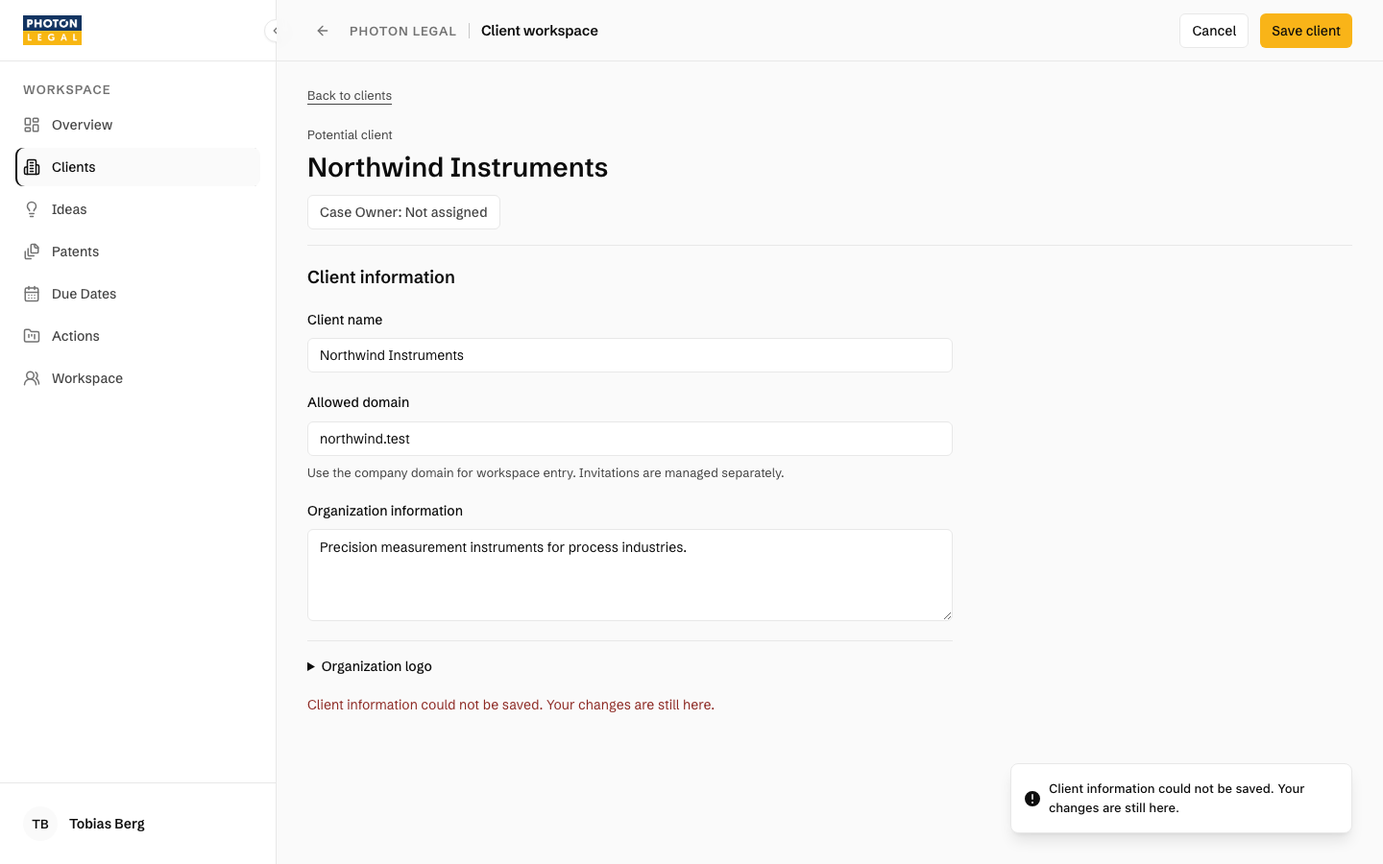
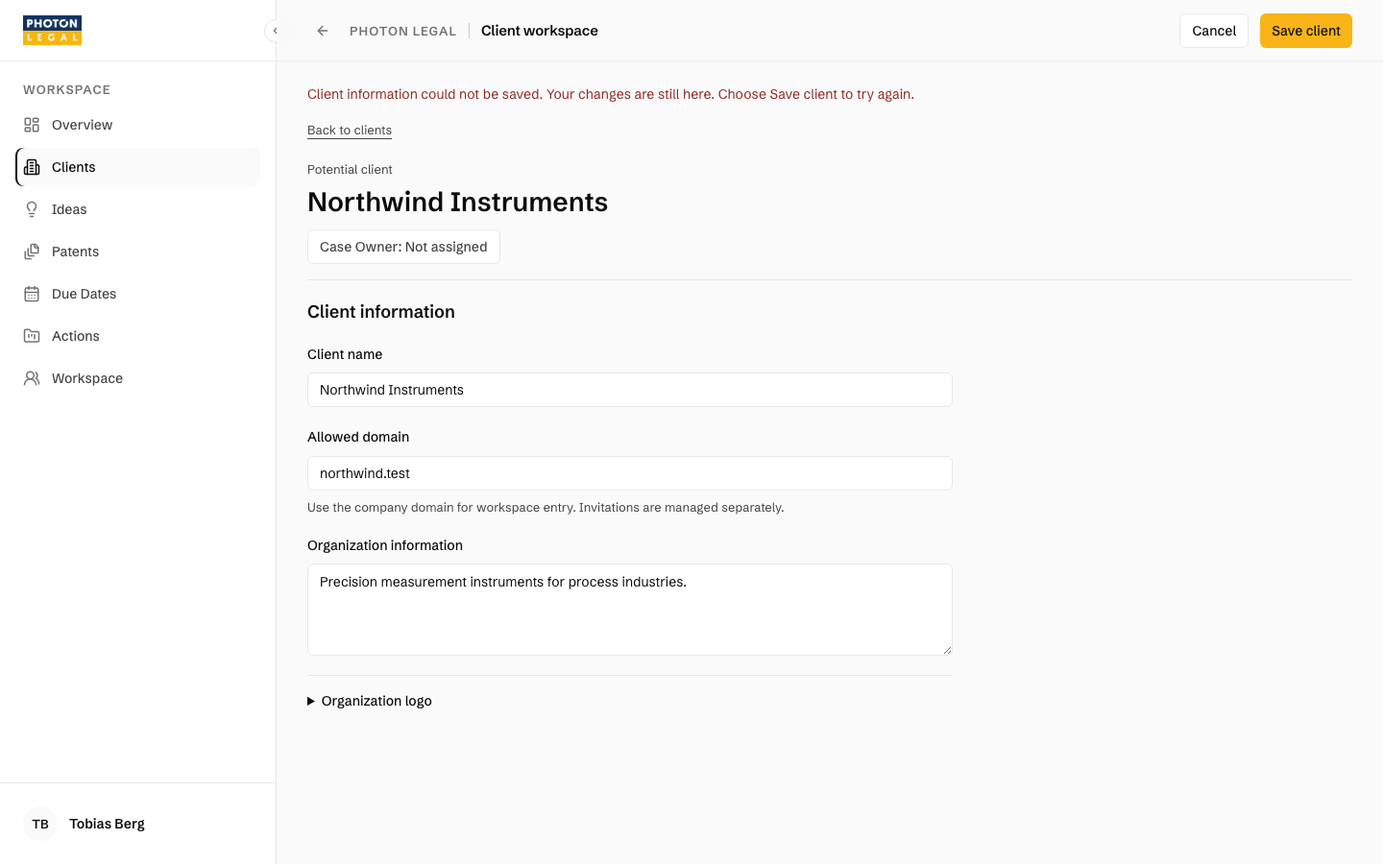
DSN-0018 resolve recovery findings and record independent PASS

diff --git a/src/pages/client/ClientDetailPage.tsx b/src/pages/client/ClientDetailPage.tsx
@@ -33,6 +33,7 @@ const ClientDetailPage: React.FC = () => {
   const { clientId } = useParams();
   const [params] = useSearchParams();
   const [saving, setSaving] = useState(false);
+  const [saveError, setSaveError] = useState<string | null>(null);
   const { user } = useUserCookie();
   // V0 limits client records to the Case Owner’s current assignments.
   // An old direct link retains the existing request-access recovery.
@@ -188,10 +189,11 @@ const ClientDetailPage: React.FC = () => {
   return <>
     <PageHeader title="Client workspace" actions={<div className="flex items-center gap-3">{isEditMode?<><Button size="sm" variant="outline" disabled={saving} onClick={()=>setIsEditMode(false)}>Cancel</Button><Button size="sm" className={actionPrimary} disabled={saving} onClick={async()=>{setSaving(true);try{await clientDetailsRef.current?.saveChanges();}finally{setSaving(false);}}}>{saving?"Saving…":"Save client"}</Button></>:client&&!isError&&<Button size="sm" variant="outline" onClick={()=>refetchClientData()}>Refresh client</Button>}<ActionsNavigation/></div>}/>
     <div data-client-workspace className="mx-auto w-full max-w-screen-2xl px-6 pb-10 pt-3 text-pl-ink md:px-8 md:pt-6 [&_input]:scroll-mt-56 [&_select]:scroll-mt-56 [&_button]:scroll-mt-56 [&_a]:scroll-mt-56">
+      {isEditMode && saveError && <p role="alert" className="mb-4 text-sm text-pl-red-text">{saveError} Choose Save client to try again.</p>}
       <Link to={back} className="text-xs text-pl-text-2 underline underline-offset-4">Back to clients</Link>
       {isLoading&&!client?<p role="status" className="py-8 text-sm text-pl-text-2">Loading client workspace…</p>:isUnassignedCaseOwner?<section className="py-8"><h1 className="text-xl font-semibold">Client access is not assigned</h1><p className="mt-3 max-w-prose text-sm text-pl-text-2">Ask a Photon Admin for access before opening this client's information or work.</p>{requestAccessMutation.isSuccess?<p role="status" className="mt-5 text-sm">Access request sent. A Photon Admin must assign access before you can open this client.</p>:<Button size="sm" className={`mt-5 ${actionPrimary}`} disabled={requestAccessMutation.isPending} onClick={()=>requestAccessMutation.mutate()}>{requestAccessMutation.isPending?"Sending request…":"Request client access"}</Button>}{requestAccessMutation.isError&&<p role="alert" className="mt-3 text-sm text-pl-red-text">The access request could not be sent. Try again.</p>}</section>:isError||!client?<section className="py-8"><h1 className="text-xl font-semibold">Client workspace could not be loaded</h1><p className="mt-3 text-sm text-pl-text-2">Reload to check the client's information and setup.</p><Button size="sm" className={`mt-5 ${actionPrimary}`} onClick={()=>refetchClientData()}>Reload client</Button></section>:<>
         <header className="sticky top-16 z-10 my-2 border-b border-pl-border bg-pl-bg-subtle pb-2 md:my-5 md:pb-4"><p className="hidden text-xs text-pl-text-2 md:block">{clientRelationship(client)}</p><h1 className="mt-1 break-words text-lg font-semibold leading-tight md:mt-2 md:text-2xl">{client.name}</h1><div className="mt-2 flex flex-wrap items-center gap-2 text-xs text-pl-text-2 md:mt-3 md:gap-3">{user.role==="PHOTON_ADMIN"?<Button size="sm" variant="outline" onClick={()=>setIsOwnerDialogOpen(true)}>Case Owner: {owners}</Button>:<p>Case Owner · {owners}</p>}{!isEditMode&&<Button size="sm" variant="outline" onClick={enterView} title={!client.is_active?"Client view is unavailable for an inactive client record.":client.onboarding?.admins.active===0?"A Workspace Admin must activate their invitation before client view is available.":undefined} disabled={!client.is_active || (client.onboarding && client.onboarding.admins.active===0)}>Enter client view</Button>}</div></header>
-        {isEditMode?<ClientDetails ref={clientDetailsRef} clientData={client} clientId={clientId!} refetchClientData={refetchClientData} isEditMode onSaveComplete={()=>setIsEditMode(false)} onCancel={()=>setIsEditMode(false)}/>:<ClientTabs clientId={clientId!} clientData={client} clientTeam={client.User} caseOwnerName={owners} onChangeCaseOwner={user.role==="PHOTON_ADMIN"?()=>setIsOwnerDialogOpen(true):undefined} canManageTeam={!isUnassignedCaseOwner} onEditClient={()=>setIsEditMode(true)}/>}
+        {isEditMode?<ClientDetails ref={clientDetailsRef} clientData={client} clientId={clientId!} refetchClientData={refetchClientData} isEditMode onSaveError={setSaveError} onSaveComplete={()=>setIsEditMode(false)} onCancel={()=>setIsEditMode(false)}/>:<ClientTabs clientId={clientId!} clientData={client} clientTeam={client.User} caseOwnerName={owners} onChangeCaseOwner={user.role==="PHOTON_ADMIN"?()=>setIsOwnerDialogOpen(true):undefined} canManageTeam={!isUnassignedCaseOwner} onEditClient={()=>{setSaveError(null);setIsEditMode(true);}}/>}
       </>}
     </div>
     <Dialog open={isOwnerDialogOpen} onOpenChange={setIsOwnerDialogOpen}><DialogContent className="max-h-full overflow-y-auto border-pl-border bg-pl-bg text-pl-ink sm:max-w-md"><DialogHeader><DialogTitle>Assign Case Owner</DialogTitle><DialogDescription>Add a support owner for {client?.name}. Existing client assignments stay in place.</DialogDescription></DialogHeader><div className="divide-y divide-pl-border">{caseOwners.map((owner:any)=><Button key={owner.id} variant="ghost" className="h-auto w-full justify-between gap-3 rounded-none px-0 py-3 text-left" disabled={ownerMutation.isPending || owner.assigned_client_ids?.includes(clientId) || owner.status!=="ACTIVE"} onClick={()=>ownerMutation.mutate(owner,{onSuccess:()=>refetchClientData()})}><span className="min-w-0"><span className="block break-words text-sm font-medium">{owner.name}</span><span className="mt-1 block break-all text-xs text-pl-text-2">{owner.email}</span></span>{owner.assigned_client_ids?.includes(clientId)&&<span className="text-xs">Assigned</span>}</Button>)}</div>{ownerMutation.isError&&<p role="alert" className="text-sm text-pl-red-text">The assignment could not be saved. Select the Case Owner to try again.</p>}</DialogContent></Dialog>

diff --git a/src/components/clients/OverviewTab.tsx b/src/components/clients/OverviewTab.tsx
@@ -363,7 +363,7 @@ const OverviewTab: React.FC<OverviewTabProps> = ({ clientTeam = [], clientId, cl
         </div>}
       </DialogContent>
     </Dialog>
-    <Dialog open={historyDialogOpen} onOpenChange={setHistoryDialogOpen}><DialogContent className="max-h-screen overflow-y-auto border-pl-border bg-pl-bg text-pl-ink sm:max-w-2xl"><DialogHeader><DialogTitle>Portfolio import history</DialogTitle><DialogDescription>Files imported into {clientData?.name}. Review the result before confirming readiness.</DialogDescription></DialogHeader><div className="flex flex-wrap gap-2"><Button size="sm" variant="outline" onClick={() => {refreshHistory(); queryClient.invalidateQueries({queryKey:["client",clientId]});}}>Refresh history</Button>{canChange && <Button size="sm" className={actionPrimary} disabled={isUploadingPatentFile} onClick={() => uploadRef.current?.click()}>{isUploadingPatentFile ? "Importing…" : "Import corrected file"}</Button>}</div>{historyError ? <p role="alert" className="text-sm text-pl-red-text">Import history could not be loaded. Refresh to try again.</p> : !importHistory.length ? <p className="text-sm text-pl-text-2">No imports recorded yet.</p> : <ul className="divide-y divide-pl-border">{importHistory.map(row => <li key={row.id} className="py-4"><p className="break-words text-sm font-medium">{row.file?.original_name || "Portfolio import"}</p><p className="mt-2 text-xs text-pl-text-2">{formatDate(row.completed_at || row.created_at)} · {row.imported_by?.name || "User not recorded"}</p><p className="mt-2 text-sm text-pl-text-2">{row.status === "RUNNING" ? "Import in progress" : `${row.created_count ?? 0} added · ${row.updated_count ?? 0} updated · ${row.unchanged_count ?? 0} unchanged · ${row.duplicate_in_file ?? 0} duplicates · ${row.failed_count ?? 0} failed`}</p>{row.unmapped_columns?.length > 0 && <p className="mt-2 break-words text-xs text-pl-text-2">Columns not imported: {row.unmapped_columns.join(", ")}</p>}{row.file?.id && <Button size="sm" variant="outline" className="mt-3" onClick={() => downloadImportFile(row.file.id, row.file.original_name)}>Download source file</Button>}</li>)}</ul>}{!!setup?.latest_import?.errors?.length && <div className="border-t border-pl-border pt-4"><h3 className="text-sm font-medium">Rows to correct in the latest import</h3><ul className="mt-3 space-y-2 text-xs text-pl-text-2">{setup.latest_import.errors.map((error,index) => <li key={index}>Row {error.row}: {error.message}</li>)}</ul></div>}</DialogContent></Dialog>
+    <Dialog open={historyDialogOpen} onOpenChange={setHistoryDialogOpen}><DialogContent className="max-h-screen overflow-y-auto border-pl-border bg-pl-bg text-pl-ink sm:max-w-2xl"><DialogHeader><DialogTitle>Portfolio import history</DialogTitle><DialogDescription>Files imported into {clientData?.name}. Review the result before confirming readiness.</DialogDescription></DialogHeader><div className="flex flex-wrap gap-2"><Button size="sm" variant="outline" onClick={() => {refreshHistory(); queryClient.invalidateQueries({queryKey:["client",clientId]});}}>Refresh history</Button>{canChange && <Button size="sm" className={actionPrimary} disabled={isUploadingPatentFile} onClick={() => uploadRef.current?.click()}>{isUploadingPatentFile ? "Importing…" : "Import corrected file"}</Button>}</div>{historyError ? <p role="alert" className="text-sm text-pl-red-text">Import history could not be loaded. Refresh to try again.</p> : !importHistory.length ? <p className="text-sm text-pl-text-2">No imports recorded yet.</p> : <ul className="divide-y divide-pl-border">{importHistory.map(row => <li key={row.id} className="py-4"><p className="break-words text-sm font-medium">{row.file?.original_name || "Portfolio import"}</p><p className="mt-2 text-xs text-pl-text-2">{formatDate(row.completed_at || row.created_at)} · {row.imported_by?.name || "User not recorded"}</p><p className="mt-2 text-sm text-pl-text-2">{row.status === "RUNNING" ? "Import in progress" : `${row.created_count ?? 0} added · ${row.updated_count ?? 0} updated · ${row.unchanged_count ?? 0} unchanged · ${row.duplicate_in_file ?? 0} skipped as duplicates · ${row.failed_count ?? 0} failed`}</p>{row.unmapped_columns?.length > 0 && <p className="mt-2 break-words text-xs text-pl-text-2">Columns not imported: {row.unmapped_columns.join(", ")}</p>}{row.file?.id && <Button size="sm" variant="outline" className="mt-3" onClick={() => downloadImportFile(row.file.id, row.file.original_name)}>Download source file</Button>}</li>)}</ul>}{!!setup?.latest_import?.errors?.length && <div className="border-t border-pl-border pt-4"><h3 className="text-sm font-medium">Rows to correct in the latest import</h3><ul className="mt-3 space-y-2 text-xs text-pl-text-2">{setup.latest_import.errors.map((error,index) => <li key={index}>Row {error.row}: {error.message}</li>)}</ul></div>}</DialogContent></Dialog>
     <DuplicatePatentsModal open={duplicateModalOpen} onOpenChange={open => {setDuplicateModalOpen(open); if (!open) queryClient.invalidateQueries({queryKey:["client",clientId]});}} duplicatePatents={duplicatePatents} excelDuplicateEntries={excelDuplicateEntries} errorCount={errorCount} successCount={successCount} updatedCount={updatedCount} dueDatesCreated={dueDatesCreated} unmappedColumns={unmappedColumns} missingRequired={missingRequired}/>
     {showAddPatentModal && <AddPatentModal open={showAddPatentModal} onOpenChange={setShowAddPatentModal} clientId={clientId} onAdded={() => {queryClient.invalidateQueries({queryKey:["client",clientId]}); queryClient.invalidateQueries({queryKey:["client_metrics",clientId]});}}/>}
   </div>;

diff --git a/src/components/clients/ClientDetails.tsx b/src/components/clients/ClientDetails.tsx
@@ -38,6 +38,7 @@ type ClientDetailsProps = {
   refetchClientData: any;
   isEditMode?: boolean;
   onSaveComplete?: () => void;
+  onSaveError?: (message: string | null) => void;
   onCancel?: () => void;
 };
 
@@ -53,6 +54,7 @@ const ClientDetails = forwardRef<ClientDetailsRef, ClientDetailsProps>(
       refetchClientData,
       isEditMode = false,
       onSaveComplete,
+      onSaveError,
       onCancel,
     },
     ref
@@ -69,7 +71,7 @@ const ClientDetails = forwardRef<ClientDetailsRef, ClientDetailsProps>(
       logo: null,
     });
     const [newAdminEmail, setNewAdminEmail] = useState("");
-    const [saveError, setSaveError] = useState<string | null>(null);
+    const setSaveError = (message: string | null) => onSaveError?.(message);
 
     // Initialize form data when clientData changes or edit mode is enabled
     useEffect(() => {
@@ -162,10 +164,6 @@ const ClientDetails = forwardRef<ClientDetailsRef, ClientDetailsProps>(
                 resolve();
               },
               onError: (error: any) => {
-                toast.error(
-                  error?.response?.data?.message ||
-                    "Error updating client personal info"
-                );
                 reject(error);
               },
             });
@@ -176,7 +174,7 @@ const ClientDetails = forwardRef<ClientDetailsRef, ClientDetailsProps>(
           }
         } catch (error: any) {
           setSaveError(error?.response?.data?.message || "Client information could not be saved. Your changes are still here.");
-          // Error already handled in mutation
+          // The parent keeps one persistent recovery message by the save controls.
         }
       },
     }));
@@ -307,7 +305,7 @@ const ClientDetails = forwardRef<ClientDetailsRef, ClientDetailsProps>(
         <div><label htmlFor="edit-client-domain" className="text-sm font-medium">Allowed domain</label><Input id="edit-client-domain" value={formData.allowed_domain} onChange={event=>handleChange("allowed_domain",event.target.value)} placeholder="company.test" className="mt-2 h-9 border-pl-border" aria-invalid={!!validationErrors.allowed_domain}/><p className="mt-2 text-xs text-pl-text-2">Use the company domain for workspace entry. Invitations are managed separately.</p>{validationErrors.allowed_domain && <p role="alert" className="mt-2 text-sm text-pl-red-text">{validationErrors.allowed_domain}</p>}</div>
         <div><label htmlFor="edit-client-about" className="text-sm font-medium">Organization information</label><Textarea id="edit-client-about" value={formData.about} onChange={event=>handleChange("about",event.target.value)} className="mt-2 min-h-24 border-pl-border"/></div>
         <details className="border-t border-pl-border pt-4"><summary className="cursor-pointer text-sm font-medium">Organization logo</summary>{resolvedClientLogo && <img src={resolvedClientLogo} alt="Current organization logo" className="mt-3 h-12 max-w-32 object-contain"/>}<label htmlFor="edit-client-logo" className="mt-3 block text-sm">Upload logo</label><Input id="edit-client-logo" type="file" accept="image/*" disabled={isFileUploading} onChange={handleLogoChange} className="mt-2 border-pl-border"/>{isFileUploading && <p role="status" className="mt-2 text-sm text-pl-text-2">Uploading logo…</p>}</details>
-        {isUpdating && <p role="status" className="text-sm text-pl-text-2">Saving client information…</p>}{saveError && <p role="alert" className="text-sm text-pl-red-text">{saveError}</p>}
+        {isUpdating && <p role="status" className="text-sm text-pl-text-2">Saving client information…</p>}
       </> : <dl className="space-y-4 text-sm"><div><dt className="text-xs text-pl-text-2">Allowed domain</dt><dd className="mt-2 break-words">{clientData?.allowed_domain || "Not configured"}</dd></div><div><dt className="text-xs text-pl-text-2">Organization information</dt><dd className="mt-2 whitespace-pre-wrap break-words">{clientData?.about || "No organization information added"}</dd></div></dl>}
     </section>;
   }

diff --git a/design/stories/surfaces/ClientsAndOnboarding.stories.tsx b/design/stories/surfaces/ClientsAndOnboarding.stories.tsx
@@ -30,7 +30,7 @@ export const Empty:Story={parameters:{pulse:{scenario:"v0/clients/empty",persona
 export const LongTitle:Story={...detail("long-title"),tags:["viewport:640x360@2"]};
 export const InviteAdmin:Story={...detail("no-admin"),play:async({canvasElement})=>{const c=within(canvasElement);await userEvent.click((await c.findAllByRole("button",{name:"Invite Workspace Admin",exact:true}))[0]);await expect(await within(document.body).findByRole("dialog")).toHaveTextContent("Email address");}};
 export const InviteLink:Story={...detail("no-inventors"),play:async({canvasElement})=>{const c=within(canvasElement);await userEvent.click(await c.findByRole("button",{name:"Set up invitations"}));await expect(await within(document.body).findByRole("dialog")).toHaveTextContent("No active invitation link");}};
-export const ImportResult:Story={...detail("import-errors"),play:async({canvasElement})=>{const c=within(canvasElement);await userEvent.click(await c.findByRole("button",{name:"Review import result"}));await expect(await within(document.body).findByRole("dialog")).toHaveTextContent("Rows to correct in the latest import");await waitFor(()=>expect(within(document.body).getByRole("dialog")).toHaveTextContent("15 added · 0 updated · 0 unchanged · 1 duplicates · 2 failed"));}};
+export const ImportResult:Story={...detail("import-errors"),play:async({canvasElement})=>{const c=within(canvasElement);await userEvent.click(await c.findByRole("button",{name:"Review import result"}));await expect(await within(document.body).findByRole("dialog")).toHaveTextContent("Rows to correct in the latest import");await waitFor(()=>expect(within(document.body).getByRole("dialog")).toHaveTextContent("15 added · 0 updated · 0 unchanged · 1 skipped as duplicates · 2 failed"));await expect(within(document.body).getByRole("dialog")).toHaveTextContent("Duplicate of row 4; skipped. Keep one row");}};
 export const ConfirmReadiness:Story={...detail("confirm-ready"),play:async({canvasElement})=>{const c=within(canvasElement);await userEvent.click(await c.findByRole("button",{name:"Review readiness"}));await expect(await within(document.body).findByRole("dialog")).toHaveTextContent("Confirm onboarding readiness");}};
 export const EditDomain:Story={...detail("potential-client"),play:async({canvasElement})=>{const c=within(canvasElement);await userEvent.click(await c.findByRole("button",{name:"Configure domain"}));await expect(c.getByRole("textbox",{name:"Allowed domain"})).toBeVisible();}};
 export const SaveFailed:Story={...detail("potential-client"),parameters:{...detail("potential-client").parameters,msw:{handlers:[route("patch","/v1/clients/:id",()=>({status:503,body:{message:"Client information could not be saved. Your changes are still here."}}))]}},play:async({canvasElement})=>{const c=within(canvasElement);await userEvent.click(await c.findByRole("button",{name:"Configure domain"}));await userEvent.type(c.getByRole("textbox",{name:"Allowed domain"}),"northwind.test");await userEvent.click(c.getByRole("button",{name:"Save client",exact:true}));await expect(await c.findByRole("alert")).toHaveTextContent("Your changes are still here");await expect(c.getByRole("textbox",{name:"Allowed domain"})).toHaveValue("northwind.test");}};

diff --git a/mock/scenarios/v0/index.ts b/mock/scenarios/v0/index.ts
@@ -506,7 +506,7 @@ const clientStates = ["potential-client", "new-client", "no-owner", "no-admin", 
   if(slug==="no-inventors") {d.users=d.users.filter(u=>!(u.client_id===client.id && u.role==="INVENTOR"));d.invites=d.invites.filter(i=>i.client_id!==client.id);d.ideas=d.ideas.filter(i=>i.client_id!==client.id);}
   if(["potential-client","new-client","no-portfolio","import-in-progress"].includes(slug)){d.portfolios[client.id]=portfolio(0,"clients-empty",client,0);d.dueDates=d.dueDates.filter(e=>e.client_id!==client.id);d.actionRequests=d.actionRequests.filter(a=>a.client_id!==client.id);}
   const latest=d.imports.find(i=>i.client_id===client.id);
-  if(latest && ["import-in-progress","import-errors"].includes(slug)) {latest.status=slug==="import-errors"?"PARTIAL":"RUNNING";latest.failed_count=slug==="import-errors"?2:0;latest.duplicate_in_file=slug==="import-errors"?1:0;latest.created_count=slug==="import-errors"?15:0;latest.updated_count=0;latest.unchanged_count=0;latest.completed_at=slug==="import-errors"?clock.iso():null;latest.created_at=clock.iso();latest.errors=slug==="import-errors"?[{row:2,message:"Jurisdiction column is empty."},{row:7,message:"Application number is missing."}]:[];}
+  if(latest && ["import-in-progress","import-errors"].includes(slug)) {latest.status=slug==="import-errors"?"PARTIAL":"RUNNING";latest.failed_count=slug==="import-errors"?2:0;latest.duplicate_in_file=slug==="import-errors"?1:0;latest.created_count=slug==="import-errors"?15:0;latest.updated_count=0;latest.unchanged_count=0;latest.completed_at=slug==="import-errors"?clock.iso():null;latest.created_at=clock.iso();latest.errors=slug==="import-errors"?[{row:2,message:"Jurisdiction column is empty."},{row:7,message:"Application number is missing."},{row:11,message:"Duplicate of row 4; skipped. Keep one row for this application number in the corrected file."}]:[];}
   else if(["potential-client","new-client","no-portfolio"].includes(slug))d.imports=d.imports.filter(i=>i.client_id!==client.id);
   if(["ready","confirm-ready","long-title"].includes(slug)) {
     const rng=rngFor(`v0/clients/${slug}/dates`),patent=generatePortfolio(client,d.portfolios[client.id]).patents[0];

diff --git a/changes/DSN-0018/README.md b/changes/DSN-0018/README.md
@@ -31,10 +31,10 @@ BF-16 in proposed-fields.json adds derived `onboarding` evidence to the existing
 ## Stories and capture contract
 All story IDs use `surfaces-clients-and-onboarding--` under `Surfaces/Clients and onboarding`. Suffixes: photon-admin, case-owner, potential-client, new-client, no-owner, no-admin, no-inventors, no-portfolio, import-in-progress, import-errors, ready, ready-case-owner, disabled, access-request, loading, error, empty, long-title, invite-admin, invite-link, import-result, confirm-readiness, edit-domain, save-failed, client-support, client-settings, shared-invitation and owner-assignment. Every story selects a deterministic `v0/clients/` scenario. The 12 intended ledger IDs are included.
 
-Each story has 1280×720 and 1440×900 captures. Both personas' default list and ready record also have 1366×768, 1920×1080 and 640×360@2 captures. Long title has an additional zoom capture: 69 images total. All 69 story images plus two full-app zoom chooser images were opened and inspected. Corrections include list spacing, repeated status, the persistent identity header and canonical import-history totals/date/actor. Coverage remains null until every required check and independent review has passed.
+Each story has 1280×720 and 1440×900 captures. Both personas' default list and ready record also have 1366×768, 1920×1080 and 640×360@2 captures. Long title has an additional zoom capture: 69 images total. All 69 story images plus two full-app zoom chooser images were opened and inspected. Corrections include list spacing, repeated status, the persistent identity header and canonical import-history totals/date/actor. Coverage records DSN-0018 following independent PASS.
 
 ## Validation
-All 383 repository interaction tests passed after the four supplemental support/settings/link/ownership stories were added. The current 28-story scope passes. V0 53/53, both builds, roles/tokens and the first required serial gate set 7/7 pass. The previous 69-capture set was stable with no egress; 56 accessibility/overflow contexts passed. The final required serial set also passed 7/7. Exact 69-story re-baselining passed twice, with no egress. A subsequent visual review caught import-history field-name mismatches; that display is corrected and the refreshed two import-result images are stable and inspected. All 28 scoped interaction tests and 56 current accessibility/overflow contexts pass after the correction. Final serial checks and the broad repository run remain in progress.
+All 383 repository interaction tests passed after the four supplemental support/settings/link/ownership stories were added. The current 28-story scope passes. V0 53/53, both builds, roles/tokens and the first required serial gate set 7/7 pass. The previous 69-capture set was stable with no egress; 56 accessibility/overflow contexts passed. The final required serial set also passed 7/7. Exact 69-story re-baselining passed twice, with no egress. A subsequent visual review caught import-history field-name mismatches; that display is corrected and the refreshed two import-result images are stable and inspected. All 28 scoped interaction tests and 56 current accessibility/overflow contexts pass after the correction. The final round-2 serial required gates pass 7/7, with all 56 current accessibility/overflow contexts clean. The broad repository run and exact final baseline refresh remain in progress.
 
 Full-app browser evidence: the complete creation-to-readiness sequence passes. It saves a new synthetic client/domain, assigns a Case Owner, sends the mock Workspace Admin invitation, creates an inventor link, imports 12 patent records and six dates from the existing synthetic export, then records readiness. The explicit Back link restores search. Case Owner client view enters and exits back to assigned scope. Additional browser checks pass exact client-filtered approved/filed idea links, all client dates and the specific upcoming Action. The two initial probe failures were a duplicate Back-link selector and a transient development reload; the corrected complete run passes (functional3.log, links1.log).
 
@@ -52,3 +52,32 @@ Known compromises: readiness confirms operational setup rather than account acti
 | Business | 4 | Shorter time to completed client setup is the intended signal, guarded by real ownership, source evidence and recoverable imports; not yet measured. |
 
 Post-render roleplay for Tobias and Devika agrees with the six opening answers: first the selected client and next setup/support responsibility; open that record with one dominant action; read client, owner and consequence together and skip disclosed details; remember no separated counts/status; no unrelated firm metrics or people rankings; explicit source/recovery copy resolves ownership and save anxiety. Hard rules pass: one primary action per context; destructive record/link changes disclosed or confirmed; no metric without scoped work/evidence; no decorative cards, horizontal scroll, invented lifecycle stage, repeated default title/status, or unauthorized badge. Supporting details are disclosed. Client identity persists while scrolling. Both personas' zoom chooser retains the selected client's name. Known compromises above are unchanged.
+
+## Independent review — round 1
+```text
+VERDICT: NEEDS_WORK
+SURFACE: clients-and-onboarding  PERSONA: Case Owner and Photon Admin
+SCORECARD: product-fit 4 · hierarchy 4 · usability 3 · trust 3 · craft 4 · accessibility 4 · business 4
+COGNITIVE LOAD: fail — Both personas’ default-state roleplays at 1280×720 and 1440×900 support the recorded hierarchy and scope, but import recovery requires guessing and save failure repeats a status.
+FINDINGS (most severe first, max 7):
+
+1. Import result, both widths — “1 duplicates” gives neither the affected row nor its disposition; the operator must guess whether to remove, correct, or retain it when importing the corrected file — identify the duplicate row and state what happened to it and what to do next.
+2. Save failure — at 1440×900 the identical failure status appears inline and in a toast, breaking the no-repeated-status hard rule; at 1280×720 only the toast is visible, separating recovery feedback from Save — show one persistent failure message beside the save action, with the retry instruction.
+
+STATES MISSING: none
+REFERENCE MATCH: yes — restrained typography, amber primary actions, hairline separation, compact controls, and two-pane client selection follow the reference language.
+```
+
+Round 1 corrections: import evidence now identifies row 11 as a skipped duplicate of row 4 and instructs the operator to retain one row for that application number. The count explains that duplicates were skipped. Save failure has one persistent message directly under the header controls, with a Save client retry instruction; the duplicate toast is removed. Inputs remain intact. These are display/recovery corrections; existing mutations and access rules are preserved. The four refreshed import-result/save-failure captures are stable and opened at both widths; all 28 scoped interaction tests pass. Current screenshots are ready for independent round 2.
+
+## Independent review — round 2
+```text
+VERDICT: PASS
+SURFACE: clients-and-onboarding  PERSONA: Case Owner and Photon Admin
+SCORECARD: product-fit 4 · hierarchy 4 · usability 4 · trust 4 · craft 4 · accessibility 4 · business 4
+COGNITIVE LOAD: pass — Independent six-question roleplays for both personas at 1280×720 and 1440×900 agree with the record: client, ownership and next step lead, supporting evidence recedes, and recovery requires no avoidable guessing.
+FINDINGS (most severe first, max 7):
+None. All 71 images inspected; import corrections identify affected rows and disposition, and save failure provides one visible message with preserved inputs and retry guidance.
+STATES MISSING: none
+REFERENCE MATCH: yes — restrained typography, amber primary actions, compact controls, hairline separation and two-pane client selection follow the approved reference language.
+```

diff --git a/design/v0/COVERAGE.md b/design/v0/COVERAGE.md
@@ -31,11 +31,11 @@ Excluded from V0 everywhere: checkout, purchasing, billing, price selection, inv
 | Photon due dates | Case Owner, Photon Admin | `/due-dates` | 13 | 20 | conceptual | DSN-0015 |
 | Workspace, people and profile | Workspace Admin, Inventor, Case Owner, Photon Admin | `/workspace`, `/profile` | 6 | 12 | unwired |  |
 | Case Owner my work | Case Owner | `/` | 3 | 9 | unwired | DSN-0016 |
-| Clients and onboarding | Case Owner, Photon Admin | `/clients` | 4 | 12 | none |  |
+| Clients and onboarding | Case Owner, Photon Admin | `/clients`, `/clients/:clientId` | 13 | 28 | conceptual | DSN-0018 |
 | Photon Admin dashboard | Photon Admin | `/` | 9 | 12 | conceptual | DSN-0017 |
 | Authentication and access | Inventor, Workspace Admin, Case Owner, Photon Admin | `/login`, `/signup`, `/i/:inviteCode`, `/invite`, `/forgot-password`, `/reset-password`, `/auth/saml/callback` | 3 | 11 | none |  |
 
-17 surfaces, 226 intended stories, 90 V0 scenarios; backend impact conceptual on 10, unwired on 3, none on 4.
+17 surfaces, 242 intended stories, 103 V0 scenarios; backend impact conceptual on 11, unwired on 3, none on 3.
 
 ## Inventor home
 
@@ -263,18 +263,18 @@ Brief: `product-context/surfaces/case-owner-my-work.md` · Storybook title: `Sur
 
 ## Clients and onboarding
 
-Brief: `product-context/surfaces/clients-and-onboarding.md` · Storybook title: `Surfaces/Clients and onboarding` · DSN: none yet
+Brief: `product-context/surfaces/clients-and-onboarding.md` · Storybook title: `Surfaces/Clients and onboarding` · DSN: DSN-0018
 
 - **Personas:** Case Owner, Photon Admin
 - **User goal:** Find an assigned or any client, understand its setup, and complete onboarding.
 - **Business goal:** Clients become ready faster: admin invited, inventors invited, portfolio imported.
-- **Routes:** `/clients` (Case Owner, Photon Admin) — client detail and onboarding open from the list in production
-- **Required scenarios:** `v0/case-owner/my-work`, `v0/photon-admin/firm`, `v0/shape/failure`, `v0/shape/slow`
-- **States:** loading — compact client list skeleton; empty — no clients assigned; potential client without a workspace; success — ready client workspace with admins, participation, portfolio summary, import history, assignments; error — import duplicates or errors; save failed; permission — Case Owner assigned clients only; enter client view when authorized
+- **Routes:** `/clients` (Case Owner, Photon Admin) — client selection and onboarding; search/page preserved in the explicit return link; `/clients/:clientId` (Case Owner, Photon Admin) — setup/support, scoped portfolio and existing client-view entry
+- **Required scenarios:** `v0/clients/potential-client`, `v0/clients/no-owner`, `v0/clients/no-admin`, `v0/clients/no-inventors`, `v0/clients/no-portfolio`, `v0/clients/import-in-progress`, `v0/clients/import-errors`, `v0/clients/ready`, `v0/clients/confirm-ready`, `v0/clients/disabled`, `v0/clients/access-request`, `v0/clients/long-title`, `v0/clients/empty`
+- **States:** loading — named loading state in the compact client list; empty — no clients assigned; potential client without a workspace; success — ready client workspace with admins, participation, portfolio summary, import history, assignments; error — import duplicates or errors; save failed; permission — Case Owner assigned clients only; enter client view when authorized
 - **Surface-specific states:** potential-client, new-client, no-admin, no-inventors, no-portfolio, import-in-progress, import-errors, ready, disabled, access-request
 - **Navigation badge:** none
-- **Backend impact:** none — Clients, case-owner assignments, users, invites and import exist. The plan field is never surfaced.
-- **Intended story ids:** `surfaces-clients-and-onboarding--potential-client`, `surfaces-clients-and-onboarding--new-client`, `surfaces-clients-and-onboarding--no-admin`, `surfaces-clients-and-onboarding--no-inventors`, `surfaces-clients-and-onboarding--no-portfolio`, `surfaces-clients-and-onboarding--import-in-progress`, `surfaces-clients-and-onboarding--import-errors`, `surfaces-clients-and-onboarding--ready`, `surfaces-clients-and-onboarding--disabled`, `surfaces-clients-and-onboarding--access-request`, `surfaces-clients-and-onboarding--loading`, `surfaces-clients-and-onboarding--error`
+- **Backend impact:** conceptual — BF-16 derives client onboarding evidence and attributed readiness on existing client routes from saved domain, owners, people, invitation methods, portfolio/import results and scoped work. No new route or permission; pending backend verification. The plan field is never surfaced.
+- **Intended story ids:** `surfaces-clients-and-onboarding--photon-admin`, `surfaces-clients-and-onboarding--case-owner`, `surfaces-clients-and-onboarding--potential-client`, `surfaces-clients-and-onboarding--new-client`, `surfaces-clients-and-onboarding--no-owner`, `surfaces-clients-and-onboarding--no-admin`, `surfaces-clients-and-onboarding--no-inventors`, `surfaces-clients-and-onboarding--no-portfolio`, `surfaces-clients-and-onboarding--import-in-progress`, `surfaces-clients-and-onboarding--import-errors`, `surfaces-clients-and-onboarding--ready`, `surfaces-clients-and-onboarding--ready-case-owner`, `surfaces-clients-and-onboarding--disabled`, `surfaces-clients-and-onboarding--access-request`, `surfaces-clients-and-onboarding--loading`, `surfaces-clients-and-onboarding--error`, `surfaces-clients-and-onboarding--empty`, `surfaces-clients-and-onboarding--long-title`, `surfaces-clients-and-onboarding--invite-admin`, `surfaces-clients-and-onboarding--invite-link`, `surfaces-clients-and-onboarding--import-result`, `surfaces-clients-and-onboarding--confirm-readiness`, `surfaces-clients-and-onboarding--edit-domain`, `surfaces-clients-and-onboarding--save-failed`, `surfaces-clients-and-onboarding--client-support`, `surfaces-clients-and-onboarding--client-settings`, `surfaces-clients-and-onboarding--shared-invitation`, `surfaces-clients-and-onboarding--owner-assignment`
 - **Excluded here:** decorative client cards, plan or price selection
 
 ## Photon Admin dashboard

diff --git a/PROGRESS.md b/PROGRESS.md
@@ -290,3 +290,5 @@ Roleplay: first read the client and the next missing step, then the owner and co
 DSN-0018 implementation checkpoint: client list/detail now lead with the next setup responsibility; BF-16 derives readiness from saved workspace data. Creation continues through domain, owner, admin invitation, inventor link, portfolio import and attributed readiness. The full-app sequence passes with 12 imported records and 6 dates; Case Owner view-as entry/exit restores assigned-client scope. The initial 24-story set passes all 379 repository story tests, V0 53/53, both builds, role lint and tokens. Sixty-one initial captures are stable within the repository tolerance, and 48 accessibility/overflow contexts pass. Additional support/settings/link/ownership captures are being checked before independent evaluation. Legacy Clients stories, their baselines and client-specific journeys are retired. Coverage remains 14/17 until final evidence and PASS.
 
 DSN-0018 final visual checkpoint: all 69 story images plus two zoom chooser captures opened. Import-history review exposed incorrect response field names; canonical counts, importer and date now render correctly, and a story assertion covers 15 added, one duplicate and two failed rows. Both corrected captures are stable. All 28 scoped stories and 56 current accessibility/overflow contexts pass; final serial required gates 7/7, role lint and application build pass. Independent evaluation and broader checks are still running; coverage remains null.
+
+DSN-0018 independent round 2 PASS: every scorecard category 4, cognitive-load pass, all 71 images inspected and no findings or missing states. Import recovery identifies the skipped duplicate row and its disposition; save failure is one persistent message with retry and preserved values. Required gates 7/7 and 56 accessibility/overflow contexts pass after those fixes. Coverage records DSN-0018 (15/17); final repository baseline refresh remains queued behind the broad runner before merge.
